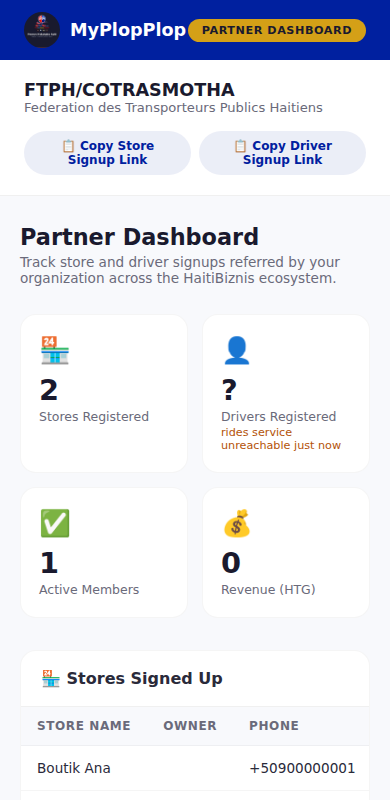
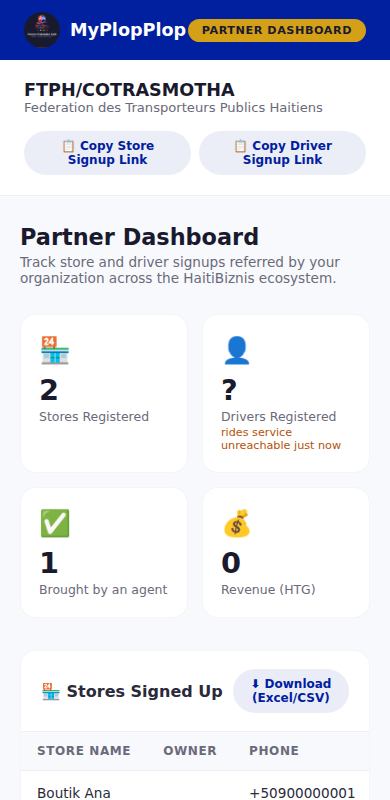
Organizations: show which member brought each merchant
'Can the organization see which member referred each merchant?' Both halves
were already being recorded and never joined. A shop carries the ORGANISATION
as a string (referralPartner); the individual agent is recorded separately in
KoutyeReferral, keyed on the shop OWNER's user id, not on the shop. The answer
was in the database in two pieces.

attachAgents() joins them, first-agent-wins to match the engine's own rule, and
never blanks the shop list if the join fails. The owner id is stripped before
the response - it was only needed for the join.

Changed region(s): [[0.0923, 0.8125, 0.5846, 1.0], [0.6462, 0.8438, 0.9231, 1.0], [0.0923, 0.7188, 0.4308, 0.75]]

diff --git a/routes/organizations.js b/routes/organizations.js
@@ -30,14 +30,45 @@ function slugRe(slug) {
   return new RegExp('^' + String(slug).replace(/[.*+?^${}()|[\]\\]/g, '\\$&') + '$', 'i');
 }
 
+/* "Can the organization see which member referred each merchant?"
+   The two halves were both being recorded and never joined. A shop carries the
+   ORGANISATION as a string (`referralPartner`), while the individual agent is
+   recorded separately in KoutyeReferral, keyed on the shop OWNER's user id -
+   not on the shop. So the answer was sitting in the database in two pieces.
+   This is the join. */
+async function attachAgents(stores) {
+  const owners = stores.map(s => s.owner).filter(Boolean);
+  if (!owners.length) return stores;
+  let byOwner = {};
+  try {
+    const KoutyeReferral = require('../models/KoutyeReferral');
+    const refs = await KoutyeReferral.find({ 'referredEntity.userId': { $in: owners } })
+      .select('koutyeCode referredEntity.userId createdAt').lean();
+    refs.forEach(r => {
+      const k = String(r.referredEntity && r.referredEntity.userId);
+      /* First agent wins, same rule the engine itself uses. */
+      if (k && !byOwner[k]) byOwner[k] = r.koutyeCode;
+    });
+  } catch (e) {
+    /* An unjoinable agent must never blank the shop list. */
+    return stores;
+  }
+  return stores.map(s => ({ ...s, referredByAgent: byOwner[String(s.owner)] || null }));
+}
+
 async function storeStats(slug) {
   const filter = { referralPartner: slugRe(slug) };
-  const stores = await Store.find(filter)
-    .select('name ownerName phone category location status isVerified createdAt')
+  let stores = await Store.find(filter)
+    .select('name owner ownerName phone category location status isVerified createdAt')
     .sort({ createdAt: -1 }).limit(200).lean();
+  stores = await attachAgents(stores);
+  /* Do not leak the owner's internal id to the browser - it was only needed
+     for the join. */
+  stores = stores.map(({ owner, ...rest }) => rest);
   return {
     count: await Store.countDocuments(filter),
     active: await Store.countDocuments({ ...filter, isVerified: true }),
+    withAgent: stores.filter(s => s.referredByAgent).length,
     stores
   };
 }
@@ -103,6 +134,7 @@ router.post('/:slug/open', async (req, res) => {
       stats: {
         stores: s.count,
         activeStores: s.active,
+        withAgent: s.withAgent,
         drivers: d.count,
         driversReachable: d.reachable
       }
